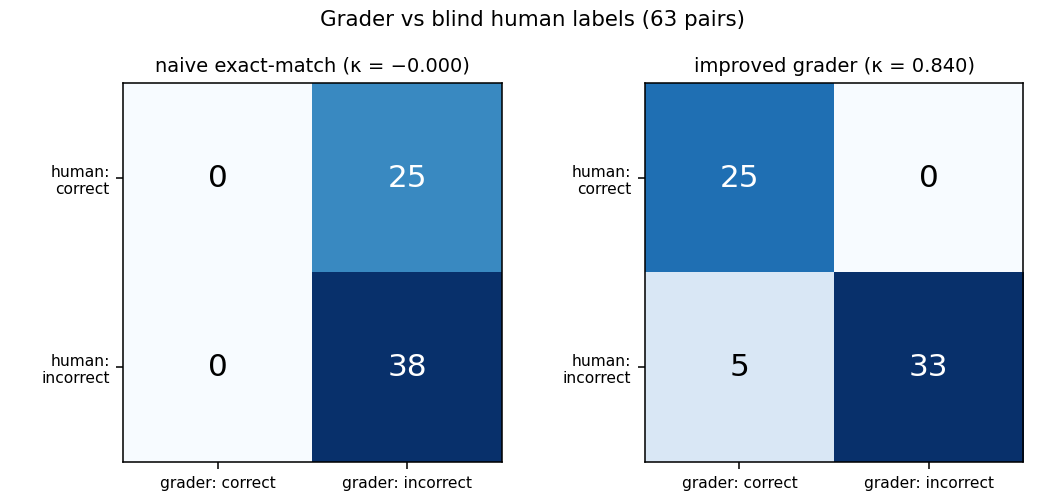
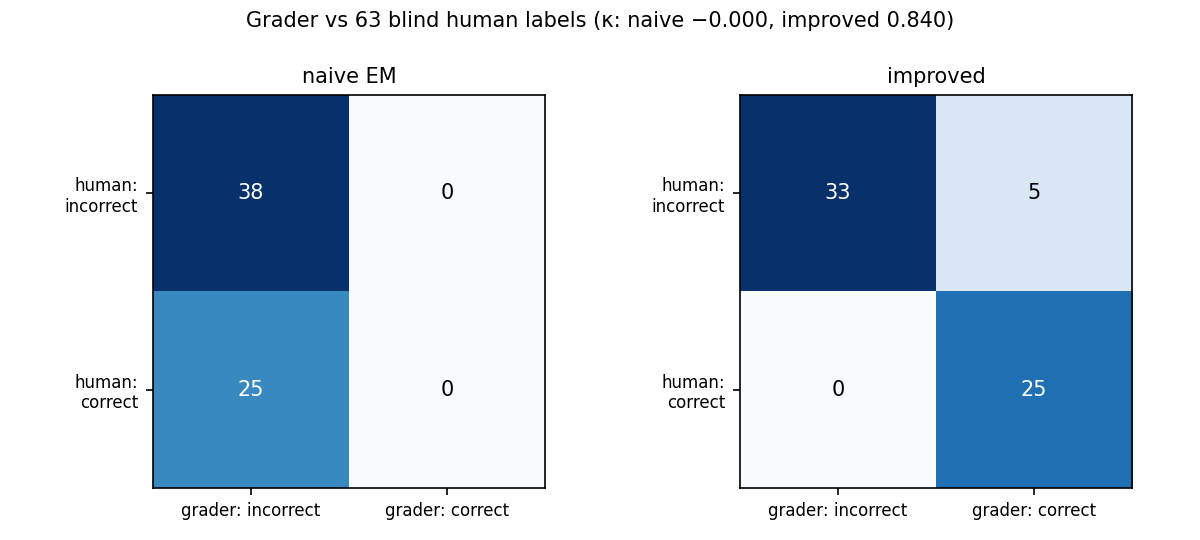
fix: independent review — TaxCalcBench headroom refresh, coverage count, HU criteria count, Mode 3/4 exact counts, A0 5.4 row, plot provenance scripts, misc landscape cells

diff --git a/p2/financeqa/make_plots.py b/p2/financeqa/make_plots.py
@@ -1,0 +1,124 @@
+"""Regenerate the four Benchmark A figures from checked-in results (no API).
+
+Inputs: results/grades.csv, data/human_labels.csv. Outputs: results/plots/*.png.
+"""
+import csv
+from collections import Counter, defaultdict
+from pathlib import Path
+
+import matplotlib
+matplotlib.use("Agg")
+import matplotlib.pyplot as plt
+import numpy as np
+
+P = Path(__file__).parent
+PLOTS = P / "results" / "plots"
+
+MODELS = ["claude-haiku-4-5", "claude-sonnet-4-6", "claude-opus-4-6"]
+LABELS = ["Haiku 4.5", "Sonnet 4.6", "Opus 4.6"]
+COLORS = ["#8ecae6", "#219ebc", "#023047"]
+
+TRUE = ("true", "1", "yes")
+
+
+def load():
+    return list(csv.DictReader(open(P / "results" / "grades.csv")))
+
+
+def fig_tier_accuracy(rows):
+    fig, ax = plt.subplots(figsize=(7, 4))
+    x = np.arange(len(MODELS))
+    for off, grader, key in ((-0.2, "naive EM", "naive_em"), (0.2, "improved", "improved")):
+        accs = []
+        for m in MODELS:
+            sub = [r for r in rows if r["model"] == m]
+            accs.append(100 * sum(r[key].lower() in TRUE for r in sub) / len(sub))
+        bars = ax.bar(x + off, accs, 0.4, label=grader,
+                      color="#bbbbbb" if key == "naive_em" else None)
+        if key == "improved":
+            for b, c in zip(bars, COLORS):
+                b.set_color(c)
+        for b, v in zip(bars, accs):
+            ax.text(b.get_x() + b.get_width() / 2, v + 0.8, f"{v:.1f}%", ha="center", fontsize=9)
+    ax.set_xticks(x, LABELS)
+    ax.set_ylabel("accuracy, all 148 items (%)")
+    ax.set_title("Tier ladder: naive exact-match (0=0=0) vs improved grader")
+    ax.legend()
+    fig.tight_layout()
+    fig.savefig(PLOTS / "tier_accuracy.png", dpi=150)
+
+
+def fig_difficulty(rows):
+    per_item = defaultdict(int)
+    for r in rows:
+        if r["improved"].lower() in TRUE:
+            per_item[r["row_id"]] += 1
+    all_ids = {r["row_id"] for r in rows}
+    counts = Counter(per_item.get(i, 0) for i in all_ids)
+    fig, ax = plt.subplots(figsize=(6.5, 4))
+    ks = [0, 1, 2, 3]
+    vals = [counts.get(k, 0) for k in ks]
+    bars = ax.bar([str(k) for k in ks], vals, color=["#9b2226", "#ee9b00", "#ee9b00", "#2a9d8f"])
+    for b, v in zip(bars, vals):
+        ax.text(b.get_x() + b.get_width() / 2, v + 1, str(v), ha="center")
+    ax.set_xlabel("tiers correct (of 3)")
+    ax.set_ylabel("items")
+    ax.set_title("Item difficulty: 57 dead / 26 discriminating / 65 free (148 items)")
+    fig.tight_layout()
+    fig.savefig(PLOTS / "difficulty_distribution.png", dpi=150)
+
+
+def fig_failure_profile(rows):
+    cats = ["missing_assumption", "wrong_convention", "wrong_value_or_arithmetic", "wrong_concept"]
+    present = sorted({r["failure_category"] for r in rows
+                      if r["failure_category"] not in ("", "none")})
+    cats = [c for c in cats if c in present] + [c for c in present if c not in cats]
+    fig, ax = plt.subplots(figsize=(8, 4))
+    x = np.arange(len(cats))
+    for i, (m, lab, col) in enumerate(zip(MODELS, LABELS, COLORS)):
+        sub = [r for r in rows if r["model"] == m and r["improved"].lower() not in TRUE]
+        cnt = Counter(r["failure_category"] for r in sub)
+        ax.bar(x + (i - 1) * 0.27, [cnt.get(c, 0) for c in cats], 0.27, label=lab, color=col)
+    ax.set_xticks(x, [c.replace("_", "\n") for c in cats], fontsize=9)
+    ax.set_ylabel("failed responses")
+    ax.set_title("Failure profile by adjudicator category — missing_assumption does not shrink")
+    ax.legend()
+    fig.tight_layout()
+    fig.savefig(PLOTS / "failure_profile.png", dpi=150)
+
+
+def fig_grader_confusion(rows):
+    human = list(csv.DictReader(open(P / "data" / "human_labels.csv")))
+    grade = {(r["row_id"], r["model"]): r for r in rows}
+    mats = {}
+    for key, name in (("naive_em", "naive EM"), ("improved", "improved")):
+        m = np.zeros((2, 2), int)  # [human incorrect/correct][grader incorrect/correct]
+        for h in human:
+            g = grade[(h["row_id"], h["model"])]
+            hv = 1 if h["human_verdict"].strip() == "correct" else 0
+            gv = 1 if g[key].lower() in TRUE else 0
+            m[hv][gv] += 1
+        mats[name] = m
+    fig, axes = plt.subplots(1, 2, figsize=(8, 3.6))
+    for ax, (name, m) in zip(axes, mats.items()):
+        ax.imshow(m, cmap="Blues", vmin=0, vmax=m.max())
+        for i in range(2):
+            for j in range(2):
+                ax.text(j, i, m[i][j], ha="center", va="center",
+                        color="white" if m[i][j] > m.max() * 0.6 else "black")
+        ax.set_xticks([0, 1], ["grader: incorrect", "grader: correct"], fontsize=8)
+        ax.set_yticks([0, 1], ["human:\nincorrect", "human:\ncorrect"], fontsize=8)
+        ax.set_title(name, fontsize=10)
+    fig.suptitle("Grader vs 63 blind human labels (κ: naive −0.000, improved 0.840)", fontsize=10)
+    fig.tight_layout()
+    fig.savefig(PLOTS / "grader_confusion.png", dpi=150)
+
+
+if __name__ == "__main__":
+    PLOTS.mkdir(exist_ok=True)
+    rows = load()
+    fig_tier_accuracy(rows)
+    fig_difficulty(rows)
+    fig_failure_profile(rows)
+    fig_grader_confusion(rows)
+    print("wrote 4 plots ->", PLOTS)

diff --git a/p2/prbench/probe_plots.py b/p2/prbench/probe_plots.py
@@ -1,0 +1,72 @@
+"""Regenerate the two probe figures from checked-in artifacts (no API).
+
+Inputs: ../../benchmarks/prbench/finance.parquet, results/judgments.jsonl.
+Outputs: results/plots/rubric_anatomy.png, results/plots/padding_deltas.png.
+"""
+import json
+from collections import defaultdict
+from pathlib import Path
+
+import matplotlib
+matplotlib.use("Agg")
+import matplotlib.pyplot as plt
+import numpy as np
+import pandas as pd
+
+from prepare_items import extract_rubric
+
+P = Path(__file__).parent
+PLOTS = P / "results" / "plots"
+
+
+def fig_rubric_anatomy():
+    fin = pd.read_parquet(P.parent.parent / "benchmarks" / "prbench" / "finance.parquet")
+    weights = [c["weight"] for _, row in fin.iterrows() for c in extract_rubric(row["rubric"])]
+    fig, ax = plt.subplots(figsize=(7, 4))
+    bins = np.arange(-10.5, 11.5, 1)
+    n, bin_edges, patches = ax.hist(weights, bins=bins, edgecolor="white")
+    for patch, edge in zip(patches, bin_edges):
+        patch.set_facecolor("#9b2226" if edge < -0.5 else "#219ebc")
+    neg = sum(1 for w in weights if w < 0)
+    ax.set_xlabel("criterion weight")
+    ax.set_ylabel("criteria")
+    ax.set_title(f"PRBench-Finance rubric anatomy: {len(weights):,} criteria, "
+                 f"{neg} ({neg / len(weights):.1%}) negative")
+    fig.tight_layout()
+    fig.savefig(PLOTS / "rubric_anatomy.png", dpi=150)
+
+
+def fig_padding_deltas():
+    recs = [json.loads(l) for l in open(P / "results" / "judgments.jsonl")]
+    rubrics = defaultdict(dict)   # (task, protocol, condition) -> {crit: (weight, sat)}
+    for r in recs:
+        rubrics[(r["task"], r["protocol"], r["condition"])][r["criterion_id"]] = (
+            r["weight"], r["satisfied"])
+
+    def score(cell):
+        pos = sum(w for w, _ in cell.values() if w > 0)
+        raw = sum(w * (1 if s else 0) for w, s in cell.values()) / pos
+        return max(0.0, min(1.0, raw))
+
+    tasks = sorted({t for t, _, _ in rubrics})
+    fig, ax = plt.subplots(figsize=(8, 4))
+    x = np.arange(len(tasks))
+    for off, protocol, col in ((-0.2, "replica", "#219ebc"), (0.2, "hardened", "#023047")):
+        deltas = [score(rubrics[(t, protocol, "padded")]) - score(rubrics[(t, protocol, "original")])
+                  for t in tasks]
+        ax.bar(x + off, deltas, 0.4, label=f"{protocol} (mean {np.mean(deltas):+.3f})", color=col)
+    ax.axhline(0, color="black", lw=0.8)
+    ax.set_xticks(x, [t[:6] for t in tasks], rotation=45, fontsize=8)
+    ax.set_xlabel("item")
+    ax.set_ylabel("padding Δ (padded − original)")
+    ax.set_title("Zero-content padding does not inflate scores (15 items × 2 protocols)")
+    ax.legend()
+    fig.tight_layout()
+    fig.savefig(PLOTS / "padding_deltas.png", dpi=150)
+
+
+if __name__ == "__main__":
+    PLOTS.mkdir(exist_ok=True)
+    fig_rubric_anatomy()
+    fig_padding_deltas()
+    print("wrote 2 plots ->", PLOTS)

diff --git a/P1.selected_evals.md b/P1.selected_evals.md
@@ -93,13 +93,13 @@ One row per surveyed eval, sorted by year. Columns are grouped: **eval propertie
 | 10 | FinSearchComp | 2025 | D1 Research & analysis | T3 agentic search (global + Greater China) | tool harness | 635 q | experts | mixed | med | **clean (expert-checked)**; verif: expert cross-check (paper) | unknown (mixed) | unknown | **yes** | **high (time-sensitive by design)** | C1 — search execution, not financial reasoning | no |
 | 11 | **PRBench-Finance** | **2025** | D3 Advisory | T1 financial advice (13 topics) | conversational prompts (1–10 turns) | 600 (+300 hard) | experts | rubric+judge | **high** | **validated (93.9% expert-justified)**; verif: 2nd-expert review → QC → independent rubric eval | med (judge κ=0.603) | **high (≈0.55)** | **yes (CC-BY-4.0 + MIT harness)** | med (2025-11 release) | — | yes |
 | 12 | RuleArena | 2025 | D4 Tax & compliance | T3 rule-following (tax is 1 of 3) | rules + scenario text | 816 problems | researchers | deterministic | low | **clean (rule-derived)**; verif: same chain as finance split | **high (deterministic)** | unknown | **yes** | med (2025) | C1 — generic rule-following; tax incidental | no |
-| 13 | TaxCalcBench v1/v2 | 2025/26 | D4 Tax & compliance | T1 return preparation (federal + state) | structured JSON / PDF forms | 51 + 50 returns | vendor-internal | deterministic | **high** | **clean (engine-derived XML)**; verif: rule-derived | **high (deterministic, line-by-line)** | **high (<⅓ strict)** | **yes (MIT)** | **high (annual tax-year refresh)** | — | yes |
+| 13 | TaxCalcBench v1/v2 | 2025/26 | D4 Tax & compliance | T1 return preparation (federal + state) | structured JSON / PDF forms | 51 + 50 returns | vendor-internal | deterministic | **high** | **clean (engine-derived XML)**; verif: rule-derived | **high (deterministic, line-by-line)** | med (62.75% strict best, TY24) | **yes (MIT)** | **high (annual tax-year refresh)** | — | yes |
 | 14 | Vals Finance Agent v1/v2 | 2025/26 | D1 Research & analysis | T3 agentic filing research (9 categories) | tool harness (EDGAR + web) | 537 (v1) / 927 (v2) | experts | judge-vs-gold | **high** | private (unverifiable); verif: engine oracle (single-vendor) | unknown (v2 jury, no public κ) | med (58.6%, v2 board 2026-08) | partial (harness MIT; items private) | **high (held-out split, refreshed)** | C5 — v2's 927 items are private | no |
 | 15 | BigFinanceBench | 2026 | D1 Research & analysis | T3 open-ended research | tool harness | 928 (50 public) | experts | rubric+judge | **high** | **clean (expert rubrics, 36,241 pts)**; verif: unverifiable (items private) | unknown (no public κ) | med (58.8%) | partial (50/928) | **high (2026 + canary)** | C5 — only 50/928 public | no |
-| 16 | BlueFin | 2026 | D2 Modeling | T3 spreadsheet build/modify agent | xlsx workbook | 131 tasks | researchers | rubric+judge | **high** | **clean (expert rubrics)**; verif: unverifiable beyond the 50 public | med (judge α=0.826) | **high (<50%)** | partial (11/131 public sample) | **high (2026)** | C5 — 11/131 public sample (found on download) | no |
-| 17 | FinRetrieval | 2026 | D1 Research & analysis | T4 data retrieval (global issuers) | tool harness (MCP) | 500 q | vendor-internal | deterministic | med | **clean (structured fields)**; verif: judge validated vs expert consensus (α=0.826) | **high (deterministic)** | low (90.8% w/ vendor MCP) | **yes (MIT)** | **high (2026)** | C1, C4 — narrow lookup; near-saturated with vendor MCP | no |
+| 16 | BlueFin | 2026 | D2 Modeling | T3 spreadsheet build/modify agent | xlsx workbook | 131 tasks | researchers | rubric+judge | **high** | **clean (expert rubrics)**; verif: unverifiable beyond the 11 public | med (judge α=0.826) | **high (<50%)** | partial (11/131 public sample) | **high (2026)** | C5 — 11/131 public sample (found on download) | no |
+| 17 | FinRetrieval | 2026 | D1 Research & analysis | T4 data retrieval (global issuers) | tool harness (MCP) | 500 q | vendor-internal | deterministic | med | **clean (structured fields)**; verif: derived from structured vendor data; no independent second pass reported | **high (deterministic)** | low (90.8% w/ vendor MCP) | **yes (MIT)** | **high (2026)** | C1, C4 — narrow lookup; near-saturated with vendor MCP | no |
 | 18 | Rivet TaxBench | 2026 | D4 Tax & compliance | T2 professional tax workflows | conversational prompts | 500+ prompts | vendor-internal | deterministic | **high** | private (CPA-validated); verif: structured-source fields | unknown (vendor-run) | **high (<50% pass^5)** | no | **high (private, refreshed)** | C5 — not public at all | no |
-| 19 | SpreadsheetBench 2 | 2026 | D2 Modeling | T2 workflow modeling (avg 11.8 sheets) | xlsx workbook (multi-sheet) | 321 tasks | experts | deterministic | **high** | **clean (expert workbooks)**; verif: vendor-claimed CPA validation | **high (deterministic, via scaffold)** | unknown | **yes** | **high (2026)** | — | yes |
+| 19 | SpreadsheetBench 2 | 2026 | D2 Modeling | T2 workflow modeling (avg 11.8 sheets) | xlsx workbook (multi-sheet) | 321 tasks | experts | deterministic | **high** | **clean (expert workbooks)**; verif: expert-built target workbooks; no independent second pass reported | **high (deterministic, via scaffold)** | unknown | **yes** | **high (2026)** | — | yes |
 | 20 | τ³-Banking (τ-Knowledge) | 2026 | D11 Banking ops | T1 retail customer support (698-doc KB) | KB + tools (698 docs), dialogue | 97 tasks | researchers | deterministic | **high** | **clean (DB-state targets)**; verif: programmatic DB-state targets | **high (deterministic, pass^k)** | **high (25.5% pass¹, paper)** | **yes (CC-BY-4.0)** | **high (2026)** | C1 — banking customer support, not analyst work | no |
 
 ### Cross-cutting instruments that don't fit a cluster
@@ -115,7 +115,7 @@ Counting the 20 surveyed evals against the Finance Task Hierarchy makes the skew
 |---|---|---|
 | D1 Research & analysis | 10 | ██████████ |
 | D2 Modeling (Excel) | 3 | ███ |
-| D3 Advisory | 2 | ██ |
+| D3 Advisory | 1 | █ |
 | D4 Tax & compliance | 3 | ███ |
 | D5 Deals (IB) | 0 | – |
 | D6 Buy-side IM | 0 | – |
@@ -167,15 +167,15 @@ Cross-cutting measurement dimensions (not tasks) also remain unbenchmarked for a
 
 ## Deep Dive 3: TaxCalcBench (Column Tax, 2025/26)
 
-**(a) What it is.** TaxCalcBench ([arXiv:2507.16126](https://arxiv.org/abs/2507.16126), Column Tax — a tax-software vendor — July 2025) asks a model to prepare a complete US individual tax return. v1: 51 realistic test cases for tax year 2024, structured JSON taxpayer inputs (W-2 wages, interest, dependents, credits) in, a full Form 1040 out, graded **fully deterministically** — line-by-line comparison against the correct return XML produced by Column Tax's production tax engine, in strict (every evaluated field exact) and lenient variants. v2 (June 2026, a repo release with no paper) moves to tax year 2025, 50 cases, realistic PDF inputs (W-2s, 1099s) and adds state returns. MIT-licensed with the complete grader shipped — the only candidate whose grading needs no judge and no reimplementation. Headroom is real: SOTA models complete fewer than ⅓ of returns strictly correctly (Gemini 2.5 Pro 32.4%, later GPT-5 41.7%), with documented failure modes (wrong tax tables, arithmetic slips, eligibility misjudgments) and documented run-to-run inconsistency.
+**(a) What it is.** TaxCalcBench ([arXiv:2507.16126](https://arxiv.org/abs/2507.16126), Column Tax — a tax-software vendor — July 2025) asks a model to prepare a complete US individual tax return. v1: 51 realistic test cases for tax year 2024, structured JSON taxpayer inputs (W-2 wages, interest, dependents, credits) in, a full Form 1040 out, graded **fully deterministically** — line-by-line comparison against the correct return XML produced by Column Tax's production tax engine, in strict (every evaluated field exact) and lenient variants. v2 (June 2026, a repo release with no paper) moves to tax year 2025, 50 cases, realistic PDF inputs (W-2s, 1099s) and adds state returns. MIT-licensed with the complete grader shipped — the only candidate whose grading needs no judge and no reimplementation. Headroom remains but is closing fast: paper-era models completed fewer than ⅓ of returns strictly correctly, and the repo's own leaderboard has since climbed to 62.75% strict (GPT-5.4 Pro, TY24; TY25 best 58.00%), with documented failure modes (wrong tax tables, arithmetic slips, eligibility misjudgments) and documented run-to-run inconsistency.
 
-**(b) Why it survives the screen.** Nothing rules it out: practitioner-real task (C1 high), engine-derived golds (C2 clean), the best grader in the survey (C3), unsaturated (C4), fully public (C5), and the survey's only annually-refreshed item set (C6 — new tax year each cycle, the strongest freshness story on the board).
+**(b) Why it survives the screen.** Nothing rules it out: practitioner-real task (C1 high), engine-derived golds (C2 clean), the best grader in the survey (C3), meaningful-but-shrinking headroom (C4 med — best strict 62.75%, up from paper-era mid-30s), fully public (C5), and the survey's only annually-refreshed item set (C6 — new tax year each cycle, the strongest freshness story on the board).
 
 **(c) What it actually measures, in one sentence.** TaxCalcBench is a good measurement of whether a model can execute a long chain of interdependent, codified rules to an exact-dollar standard — procedural execution rather than analyst judgment — and, run repeatedly, of how unstable that execution still is.
 
 ## Deep Dive 4: SpreadsheetBench 2 (RUC, 2026)
 
-**(a) What it is.** SpreadsheetBench 2 ([arXiv:2606.29955](https://arxiv.org/abs/2606.29955), Renmin University KBReasoning group, June 2026) is 321 workflow-level spreadsheet tasks built by domain experts from authentic business data including financial reports and corporate filings — averaging 11.8 worksheets and 593.5 cell modifications per instance, across three categories: financial modeling / template completion, debugging, and visualization. Input is a real multi-sheet xlsx workbook plus an instruction, executed through a multi-turn agent scaffold; grading is deterministic cell-level comparison against expert-built target workbooks. The paper also benchmarks commercial products (including Claude for Excel), making it the closest public instrument to how spreadsheet work is actually shipped.
+**(a) What it is.** SpreadsheetBench 2 ([arXiv:2606.29955](https://arxiv.org/abs/2606.29955), Renmin University KBReasoning group, June 2026) is 321 workflow-level spreadsheet tasks built by domain experts from authentic business data including financial reports and corporate filings — averaging 11.8 worksheets and 593.5 cell modifications per instance, across four categories: financial modeling, template completion, debugging, and visualization. Input is a real multi-sheet xlsx workbook plus an instruction, executed through a multi-turn agent scaffold; grading is deterministic cell-level comparison against expert-built target workbooks. The paper also benchmarks commercial products (including Claude for Excel), making it the closest public instrument to how spreadsheet work is actually shipped.
 
 **(b) Why it survives the screen.** The only candidate measuring D2 T2 workflow-level modeling — the nearest public thing to investment-banking model-building — with expert-authored items (C1 high, C2 clean), deterministic grading (C3 high), and a 2026 release (C6 high). What kept it out of the P2 slot is cost, not quality: running it requires an Excel execution environment plus an agent scaffold, and improvements would target the scaffold as much as the eval.
 
@@ -193,7 +193,7 @@ P1's filter passed five evals on paper-verified facts; downloading the releases 
 
 ### Next Steps
 
-(1) Execute P2 on the target chosen in P2 Target Selection above; the other candidates (PRBench-Finance, TaxCalcBench, SpreadsheetBench 2) remain live for later critique-improve-measure cycles. (2) Add the per-domain benefit estimation to rank the six empty domains for eval construction. (3) Re-run the verification pass before relying on any number here after ~Q4 2026. (4) The P5 vendor brief is the concrete instrument for closing the highest-priority gap once ranked.
+(1) P2 executed the critique-improve-measure cycle on both targets (FinanceQA in full; PRBench-Finance's grading regime via the hack-resistance probe and 3-tier sweep); TaxCalcBench and SpreadsheetBench 2 remain live for later cycles. (2) Add the per-domain benefit estimation to rank the six empty domains for eval construction. (3) Re-run the verification pass before relying on any number here after ~Q4 2026. (4) The P5 vendor brief is the concrete instrument for closing the highest-priority gap once ranked.
 
 ## Sources
 

diff --git a/P2.claude_run_eval_improvement.md b/P2.claude_run_eval_improvement.md
@@ -21,7 +21,7 @@
 
 ## Benchmark Quality Assessment Plan
 
-A benchmark-agnostic inventory of what can be wrong with an eval — the criteria we run every audited benchmark through. Five dimensions along the eval pipeline (what the item asks → what counts as right → how that's operationalized → who applies it) plus one whole-instrument dimension; twenty checks. The checklist deliberately mentions no specific benchmark; per-benchmark findings live in each benchmark's section (A1/B1). Each benchmark section also carries the same **standard annex series** — tier ladder (5.2), difficulty distribution (5.4), dead items / deep dives, failure profile (feeds P3), grader validity (4.x) — linked directly from that benchmark's checklist-scoring cells, so benchmarks can be compared annex-for-annex.
+A benchmark-agnostic inventory of what can be wrong with an eval — the criteria we run every audited benchmark through. Five dimensions — four along the eval pipeline (what the item asks → what counts as right → how that's operationalized → who applies it) plus one whole-instrument dimension (measurement validity); twenty checks. The checklist deliberately mentions no specific benchmark; per-benchmark findings live in each benchmark's section (A1/B1). Each benchmark section also carries the same **standard annex series** — tier ladder (5.2), difficulty distribution (5.4), dead items / deep dives, failure profile (feeds P3), grader validity (4.x) — linked directly from that benchmark's checklist-scoring cells, so benchmarks can be compared annex-for-annex.
 
 ### Prompt quality
 
@@ -95,6 +95,7 @@ Generated from the A1 checklist scoring: every fail and weak row lands here exac
 | **mid** | 4.4 | Stage-1 false-accepts on incidental numbers | **quantified-deferred** — bare-gold gate specified; 63 judge calls (~$1.5) to apply; held to keep checked-in numbers exactly reproducible | False-accept channel measured at 7.9% (5/63), all on sentence-like golds |
 | **mid** | 5.1, 5.3 | One issuer + context-free subset narrow the construct; assumption subset n=46 | **planned-P5** — ≥20 issuers, ≥5 sectors, 120 assumption items | CI stated wherever subset scores appear (±10pp at 95%) |
 | **mid** | 5.2 | Degenerate discrimination under naive grading (0 = 0 = 0) | **done** — same grader restores the ladder | Monotone 50.0 / 53.4 / 56.1% (Haiku → Sonnet → Opus 4.6) |
+| **mid** | 5.4 | Bimodal difficulty: 57 dead + 65 free items ⇒ 82% of the mass carries no tier-ranking signal | **done** (measured) — item-level analysis, Annexes A2–A3; **planned-P5** — target the 1/3–2/3 band in the 200-item extension | 26/148 discriminating items; 11/16 dead basic items shown to be convention traps |
 
 ### A1 — Critique: what FinanceQA measures vs. what it claims
 
@@ -118,7 +119,7 @@ Generated from the A1 checklist scoring: every fail and weak row lands here exac
 
 #### A1 Checklist scoring
 
-FinanceQA scored against every check of the Assessment Plan. Statuses: **fail** (confirmed with evidence), **weak** (partial), **pass** (checked, clean), **TBD** (audit not yet performed; reason given), **n/a**.
+FinanceQA scored against every check of the Assessment Plan. Statuses: **fail** (confirmed with evidence), **weak** (partial), **pass** (checked, clean), **pass\*** (pass with the stated caveat), **TBD** (audit not yet performed; reason given), **n/a**.
 
 | ID | Dimension | Check | Failure looks like | Result |
 |---|---|---|---|---|
@@ -133,7 +134,7 @@ FinanceQA scored against every check of the Assessment Plan. Statuses: **fail** 
 | 3.1 | Rubric quality | Is the rubric sound by construction (independent, precise, not gameable)? | Criteria satisfiable by generic boilerplate; overlapping or contradictory criteria | n/a — no rubric |
 | 3.2 | Rubric quality | Is the rubric comprehensive for the task it grades? | Salient failure or success modes carry no criterion | n/a |
 | 4.1 | Grader & judge quality | Is the grader published and reproducible? | Manual or unpublished grading; scores can't be regenerated | **fail** — grading was human, binary, unpublished; no code ever shipped [→ Annex A5](#annex-a5--grader-validity-4144) |
-| 4.2 | Grader & judge quality | Is the judge validated against human judgment? | No agreement statistic, or a weak one, for a judge-produced score | previously unmeasurable; our replacement grader validated at **κ = 0.840** vs blind human labels (naive EM: κ = −0.000) [→ Annex A5](#annex-a5--grader-validity-4144) |
+| 4.2 | Grader & judge quality | Is the judge validated against human judgment? | No agreement statistic, or a weak one, for a judge-produced score | **fail** → fixed — no agreement statistic could exist (grading was human, unpublished); our replacement grader validated at **κ = 0.840** vs blind human labels (naive EM: κ = −0.000) [→ Annex A5](#annex-a5--grader-validity-4144) |
 | 4.3 | Grader & judge quality | Is grading invariant to answer formatting? | Correct answers rejected over surface form | **fail** → fixed; naive EM accepts 0.6% of correct-by-construction variants, improved stage 100% (340 probes) |
 | 4.4 | Grader & judge quality | Does grading resist adversarial responses? | Padding, keyword-stuffing, or incidental matches change scores | weak — Stage-1 incidental-number false-accepts measured at 7.9% (5/63); one-line fix quantified but deliberately not applied, keeping checked-in numbers reproducible [→ Annex A5](#annex-a5--grader-validity-4144) |
 | 4.5 | Grader & judge quality | Are scores stable across repeated runs? | pass@1 ≫ pass^k; single-run scores presented as the score | TBD — needs repeated runs (out of budget) |
@@ -293,8 +294,10 @@ Explicitly, `run_all.sh` executes, in order:
 | 3 | `python3 perturb.py` | no | `results/perturbation.csv` — format-invariance probe |
 | 4 | `python3 grade.py` | yes | `results/grades.csv` — all three graders; `claude-opus-5` adjudicator verdicts cached in `results/judge_cache.jsonl` |
 | 5 | `python3 analyze.py` | no | `results/summary.md` — every table in this document |
+| 6 | `python3 make_plots.py` | no | `results/plots/` — the four Annex A figures, from `grades.csv` + `human_labels.csv` |
+| 7 | *(optional)* `python3 probe_persona.py` | yes | `results/persona_grades.csv` — the P4 Stage-0 persona probe (~$5) |
 
-Requirements: `python3` (3.9+), `pip install anthropic`, `ANTHROPIC_API_KEY` in the environment (or a git-ignored `.env` at the repo root). The dataset is checked in, so no HuggingFace access is needed. Expected cost for a full from-scratch rerun: under $15 (the 444 response calls are small; the adjudicator judges only responses the deterministic stage doesn't accept). All checked-in result files under `p2/financeqa/results/` were produced by exactly these commands; every number in this document traces to a row in `results/summary.md`, which is computed from `results/grades.csv` and `results/perturbation.csv` by `analyze.py`.
+Requirements: `python3` (3.9+), `pip install anthropic`, `ANTHROPIC_API_KEY` in the environment (or a git-ignored `.env` at the repo root). The dataset is checked in, so no HuggingFace access is needed. Expected cost for a full from-scratch rerun: under $15 (the 444 response calls are small; the adjudicator judges only responses the deterministic stage doesn't accept). All checked-in result files under `p2/financeqa/results/` were produced by exactly these commands; every number in this document traces to a row in `results/summary.md` or is computed directly from `results/grades.csv` (the Annex A2–A3 item-level analyses, whose derivations `make_plots.py` shares).
 
 Human adjudication (Property 2) is the one manual step: `python3 make_adjudication_template.py` writes `data/adjudication_template.csv` (63 stratified response pairs, grader verdicts hidden); fill `human_verdict` with `correct`/`incorrect`, save as `data/human_labels.csv`, and rerun `python3 analyze.py`.
 
@@ -306,7 +309,7 @@ Generated from the B1 checklist scoring; statuses as defined in A0.
 
 | Severity | Check(s) | Finding | Action & status | Measurement / evidence |
 |---|---|---|---|---|
-| **mid** | 3.1, 4.4 | Per-criterion independent judging structurally exposed; never adversarially tested by its authors | **done** — zero-content padding attack + hardened evidence-quoting protocol, run on 15 items × 904 judgments (`p2/prbench/`) | **Negative result:** Δ = −0.020 (replica) / −0.013 (hardened) — the cheap attack does not inflate; hardened fidelity +0.014. Severity downgraded from high accordingly |
+| **mid** | 3.1, 4.4 | Per-criterion independent judging structurally exposed; never adversarially tested by its authors | **done** — zero-content padding attack + hardened evidence-quoting protocol, run on 15 items / 904 judgments (`p2/prbench/`) | **Negative result:** Δ = −0.020 (replica) / −0.013 (hardened) — the cheap attack does not inflate; hardened fidelity +0.014. Severity downgraded from high accordingly |
 | **high** | 4.2 | Wholly judge-produced score; judge cost-chosen, κ = 0.603 | **done** — hardened protocol's fidelity check run (+0.014); **recommended-upstream** — publish per-judge κ and revalidate when swapping judges | Fidelity measured: hardened − replica = +0.014 on originals; κ for o4-mini itself remains untestable on this key |
 | **mid** | 5.1 | Coverage-of-salient-points ≠ advice correctness | **documented** — construct limits stated (Deep Dive 2c in P1; B1 here) | — |
 | **mid** | 5.4 | Hard subset defined by 2025 models' failures; meaning drifts | **done (measured)** + **recommended-upstream** — version the subset or define hardness by absolute item properties | Sweep (200 × 3 tiers): hard − standard ≈ −0.20 at every tier, yet hard already fails to separate Sonnet/Opus (Δ = 0.001) — drift visible in data ([Annex B3](#annex-b3--tier-ladder--difficulty-52--54)) |
@@ -324,7 +327,7 @@ PRBench ([arXiv:2511.11562](https://arxiv.org/abs/2511.11562)) claims to measure
 
 #### B1 Checklist scoring
 
-PRBench-Finance scored against every check of the Assessment Plan. Statuses: **fail** (confirmed with evidence), **weak** (partial), **pass** (checked, clean), **TBD** (audit not yet performed; reason given), **n/a**.
+PRBench-Finance scored against every check of the Assessment Plan. Statuses: **fail** (confirmed with evidence), **weak** (partial), **pass** (checked, clean), **pass\*** (pass with the stated caveat), **TBD** (audit not yet performed; reason given), **n/a**.
 
 | ID | Dimension | Check | Failure looks like | Result |
 |---|---|---|---|---|
@@ -393,7 +396,7 @@ Unsatisfied rate per rubric category (positive criteria only), from the same 9,2
 - **Handling Uncertainty is non-monotone: Opus is the *worst* tier** (68% / 66% / 73%). More capability does not buy better uncertainty handling — the direct cross-benchmark echo of FinanceQA's tier-flat assumption-abdication (P3 Mode 1, P4 Stage 0).
 - **Financial Accuracy improves monotonically with tier** (69% / 59% / 56%) — the capability signal concentrates in computation, not in professional-process categories.
 
-The probe-scale n=15 baselines quoted in P3/P4 (Process Transparency 69%, Handling Uncertainty 45% unsatisfied) are superseded by these n=200 × 3-tier numbers.
+These n=200 × 3-tier numbers supersede the probe-scale n=15 baselines (Process Transparency 69%, Handling Uncertainty 45% unsatisfied) that earlier drafts of P3/P4 relied on; both documents now carry the sweep numbers.
 
 ### B2 — Improvement: a hack-resistance probe and a hardened judging protocol
 
@@ -441,7 +444,7 @@ cd p2/prbench && ANTHROPIC_API_KEY=<your-key> ./run_all.sh
 | 1 | `python3 prepare_items.py` | no | `data/items.jsonl` — 15 single-turn items + rubrics from `../../benchmarks/prbench/finance.parquet` |
 | 2 | `python3 generate_responses.py` | yes | `data/responses.jsonl` — one `claude-sonnet-4-6` answer per item |
 | 3 | `python3 run_probe.py` | yes | `results/judgments.jsonl` — 15 × {original, padded} × {replica, hardened} × per-criterion `claude-opus-5` verdicts (prompt-cached, resumable) |
-| 4 | `python3 analyze.py` | no | `results/summary.md` — inflation and fidelity tables |
+| 4 | `python3 analyze.py && python3 probe_plots.py` | no | `results/summary.md` — inflation and fidelity tables — plus the Annex B1–B2 figures |
 | 5 | `python3 sweep_prepare.py` | no | `data/sweep_items.jsonl` — 100 standard + 100 hard single-turn items (seed 42) |
 | 6 | `python3 sweep_generate.py` | yes | `data/sweep_responses.jsonl` — 200 × 3 tiers = 600 responses (resumable) |
 | 7 | `python3 sweep_judge.py` | yes | `results/sweep_judgments.jsonl` — 600 batched `claude-opus-5` rubric judgments (resumable) |

diff --git a/P4.leverage_finding.md b/P4.leverage_finding.md
@@ -29,7 +29,7 @@ Three reasons it is the right target. First, it is the largest failure mass on t
 
 ## The intervention, in three stages
 
-**Stage 0 — measure the prompt-recoverable fraction (scaffolding probe; days, ~$30 API).** Re-run the 46 assumption items with a one-paragraph analyst-persona system prompt: *"You are a buy-side analyst hand-spreading this company. When a required input is not disclosed, construct it using standard analyst conventions, state the assumption you made, and still produce a number."* The gap between baseline and prompted performance is the share of the mode that is elicitation, not capability; this number gates everything below.
+**Stage 0 — measure the prompt-recoverable fraction (scaffolding probe; days; budgeted <$50 API, actual ~$5).** Re-run the 46 assumption items with a one-paragraph analyst-persona system prompt: *"You are a buy-side analyst hand-spreading this company. When a required input is not disclosed, construct it using standard analyst conventions, state the assumption you made, and still produce a number."* The gap between baseline and prompted performance is the share of the mode that is elicitation, not capability; this number gates everything below.
 
 **Executed (per the pre-registration above; 46 items × 3 tiers, same grader, ~$5):**
 
@@ -51,7 +51,7 @@ Reading by the pre-registered rule: **the elicitation-recoverable fraction is sm
 
 | item | estimate |
 |---|---|
-| Stage 0 probe | 2 engineer-days; <$50 API |
+| Stage 0 probe | 2 engineer-days; ~$5 API (actual, executed) |
 | Stage 1 data | 3–5k traces × ~20 min SME review ≈ 1,000–1,700 SME-hours ≈ **$80–170k** vendor spend (at $80–100/hr blended), plus 2–4 weeks of one research engineer |
 | Stage 2 environment | 2–3 engineer-months to build the XBRL task generator + trap-instance sampler; grader is already written (P2). RLVR compute: one standard post-training run's marginal cost — small against any frontier training budget |
 | Total to a trainable signal | **≈ $150–300k + one quarter of one team's partial attention** |
@@ -62,7 +62,7 @@ Layered, because the P2 eval alone is 46 items on one company and Stage-2 traini
 
 1. **On the P2 instrument, Benchmark A (necessary, not sufficient):** assumption-subset score under the improved grader moves from ~17% toward the basic-subset level (~50%), with the `missing_assumption` category — not just the total — shrinking. Run pre-registered: same 46 items, same grader, same prompt.
 2. **On fresh items (the real test of the capability):** the P5 vendor delivers ~200 new assumption-heavy items on *different issuers*; hold them fully out of all training. This is the primary endpoint, because it breaks both the single-company confound and any training contamination.
-3. **On the capability the mode is really about (transfer):** Benchmark B (PRBench-Finance)'s rubric criteria are tagged by category, including **Handling Uncertainty** (93 criteria in the finance split) — per-criterion hit rate there measures assumption-making in open-ended advice, a different format from short-answer QA. A pre-intervention reference already exists from the P2 sweep (200 items × 3 tiers): Handling-Uncertainty criteria go unsatisfied 68% / 66% / 73% for Haiku / Sonnet / Opus — non-monotone, with the *most capable* tier worst, and Process Transparency 78% / 73% / 70% — the numbers this intervention should move (and the inversion it should erase). Secondary transfer: BigFinanceBench's public subset, whose rubrics explicitly award stated assumptions.
+3. **On the capability the mode is really about (transfer):** Benchmark B (PRBench-Finance)'s rubric criteria are tagged by category, including **Handling Uncertainty** (673 criteria across 344 of the 600 finance items, counted from the parquet) — per-criterion hit rate there measures assumption-making in open-ended advice, a different format from short-answer QA. A pre-intervention reference already exists from the P2 sweep (200 items × 3 tiers): Handling-Uncertainty criteria go unsatisfied 68% / 66% / 73% for Haiku / Sonnet / Opus — non-monotone, with the *most capable* tier worst, and Process Transparency 78% / 73% / 70% — the numbers this intervention should move (and the inversion it should erase). Secondary transfer: BigFinanceBench's public subset, whose rubrics explicitly award stated assumptions.
 4. **The overcorrection guard (must move ≤ nothing):** the dual failure of "always construct" is fabrication. Maintain a trap set — construction-style prompts where the data genuinely cannot support an estimate and refusal/qualification is correct (FailSafeQA-style perturbations plus Stage-2 trap instances) — and require the false-construction rate not to rise. A fix that converts assumption abdication into confident fabrication is worse than the disease; this metric is the reason the RL reward is two-sided.
 
 ## What we don't know how to fix

diff --git a/P5.vendor_brief.md b/P5.vendor_brief.md
@@ -26,7 +26,7 @@ Extend **Benchmark A (FinanceQA)** — re-armed with P2's published two-stage gr
 | `question` | One quantity, one period. For assumption items the quantity must NOT be readable off the excerpt — if a single line item answers it, it is basic, not assumption. |
 | `question_type` | `basic` / `assumption` / `trap` |
 | `gold_primary` | **A bare quantity, machine-parsable**: `"$1,502 (in millions)"`, `"24.30%"`, `"3.67x"`. Never a sentence. (The predecessor benchmark's sentence-style golds measurably broke automated grading; this is a hard requirement.) For trap items: `"NOT_CONSTRUCTIBLE"` plus a one-sentence reason. |
-| `accepted_alternatives` | Every professionally defensible convention that yields a different number, each as `{convention: <name>, value: <bare quantity>}`. Empty list allowed but must be affirmed, not omitted. (In our pilot, 51% of model answers judged "wrong" used a defensible alternative convention — this field is the fix.) |
+| `accepted_alternatives` | Every professionally defensible convention that yields a different number, each as `{convention: <name>, value: <bare quantity>}`. Empty list allowed but must be affirmed, not omitted. (In our pilot, 51% of assumption-item answers judged "wrong" — 55% across all items — used a defensible alternative convention; this field is the fix.) |
 | `gold_cot` | Step-by-step derivation naming each convention fork and the branch taken. |
 | `assumption_named` | For assumption items: the specific convention the item is testing, in ≤10 words (e.g., "operating cash = min(2% revenue, cash)"). |
 

diff --git a/P3.failure_modes.md b/P3.failure_modes.md
@@ -24,8 +24,8 @@ A four-mode taxonomy of how Claude fails at finance-practitioner work, distilled
 |---|---|---|---|---|
 | 1 — Assumption abdication | Constructs nothing beyond disclosed figures; treats "not stated" as "doesn't exist" | **flat: 24 / 28 / 28** of 46 assumption items | 80 judged failures | P4 intervention |
 | 2 — Silent convention substitution | Executes fully and correctly on an unflagged alternative convention | persistent at every tier | 114/208 incorrect flagged defensible (55%) | P5 spec (`accepted_alternatives`, `assumption_named`) |
-| 3 — Structural slips in deal math | One early structural assumption compounds into a confident wrong MOIC/IRR | improving: 78.1 → 82.8 → 87.5% conceptual | ~40 conceptual failures | — (scaling is handling it) |
-| 4 — Statement-mechanics pattern-matching | Right accounting rule applied to the wrong situation | partially improving | ~10 items, human-verified | — (scaling, plus Mode-2 overlap noted) |
+| 3 — Structural slips in deal math | One early structural assumption compounds into a confident wrong MOIC/IRR | improving: 78.1 → 82.8 → 87.5% conceptual | 15 of 33 conceptual failures (`wrong_value_or_arithmetic`) | — (scaling is handling it) |
+| 4 — Statement-mechanics pattern-matching | Right accounting rule applied to the wrong situation | partially improving | 7 `wrong_concept` failures + 3 human-overturned false-accepts | — (scaling, plus Mode-2 overlap noted) |
 
 ## Mode 1 — Assumption abdication: "if the filing doesn't state it, it doesn't exist"
 
